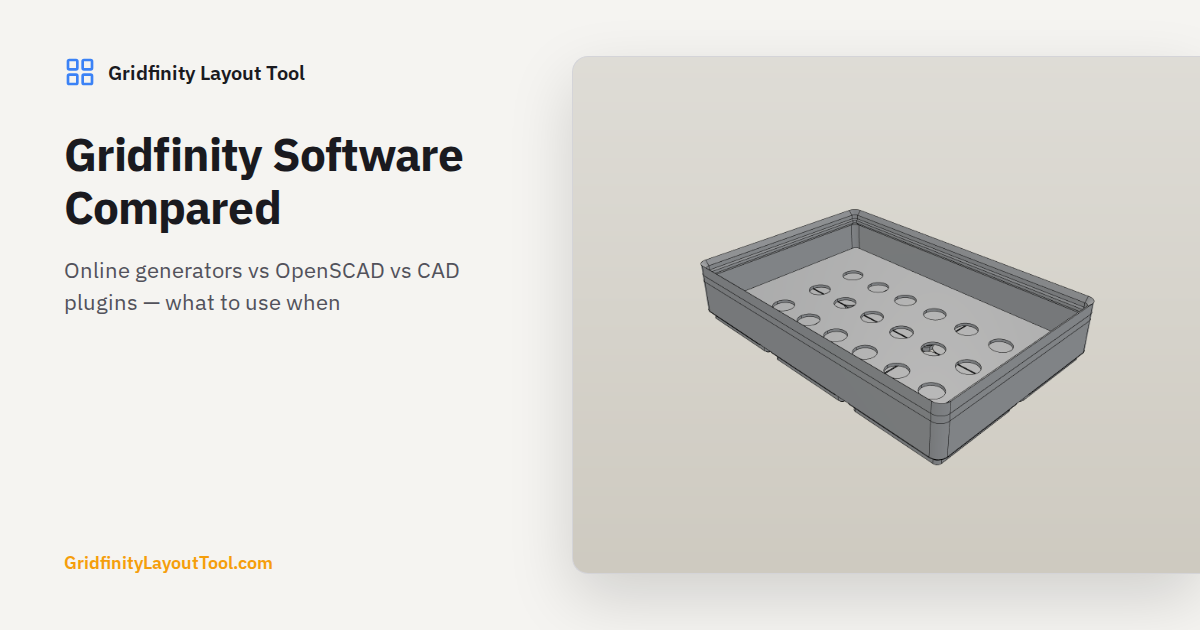
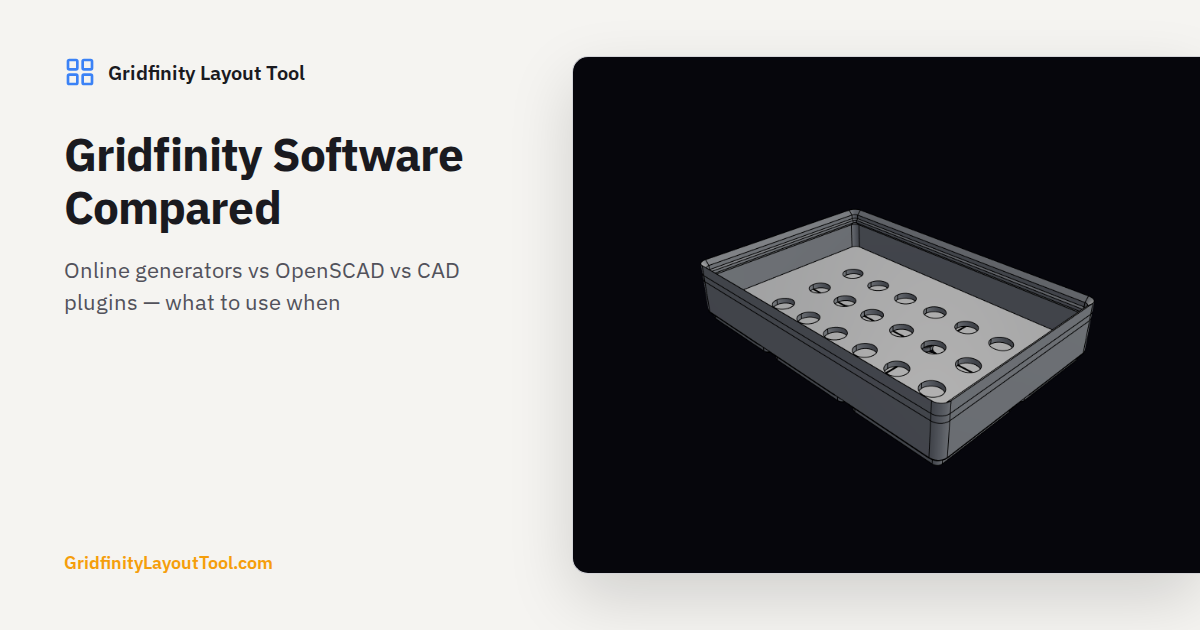
chore(seo): render OG card bins the way the designer shows them
The bin insets on the generator, designer, bin-generator, sizes, what-is,
software and community cards were light-theme captures of gallery examples,
so they carried the gallery palette's grey body and amber accents rather
than the app's look. The dev thumbnail route gains a colors=0 flag that
renders an example with feature colors off, and the renders step captures
each inset a second time in the app's dark theme with the plain preview
color into a -app file. The cards use those; the light renders stay for the
content pages. The cutout-generator card was defined but never generated.

diff --git a/scripts/gen-seo-images.ts b/scripts/gen-seo-images.ts
@@ -380,7 +380,7 @@ const OG_CARDS: OgCard[] = [
     title: 'Gridfinity Bin Designer',
     subtitle: 'Custom bins with compartments, cutouts & label tabs — free, in your browser',
     style: 'dark',
-    inset: 'multicolor-organizer-bin.png',
+    inset: 'multicolor-organizer-bin-app.png',
     insetPosition: 'center',
   },
   {
@@ -395,7 +395,7 @@ const OG_CARDS: OgCard[] = [
     title: 'Community Gridfinity Designs',
     subtitle: 'Designs shared by other makers — free to remix and print',
     style: 'dark',
-    inset: 'multicolor-organizer-bin.png',
+    inset: 'multicolor-organizer-bin-app.png',
     insetPosition: 'center',
   },
   {
@@ -403,7 +403,7 @@ const OG_CARDS: OgCard[] = [
     title: 'Gridfinity Generator',
     subtitle: 'Bins and baseplates, generated in your browser — STL, STEP & 3MF',
     style: 'dark',
-    inset: 'multicolor-organizer-bin.png',
+    inset: 'multicolor-organizer-bin-app.png',
     insetPosition: 'center',
   },
   {
@@ -411,7 +411,7 @@ const OG_CARDS: OgCard[] = [
     title: 'Gridfinity Bin Generator',
     subtitle: 'Parametric bins with a real-time 3D preview — free, no account',
     style: 'dark',
-    inset: 'honeycomb-caddy-bin.png',
+    inset: 'honeycomb-caddy-bin-app.png',
     insetPosition: 'center',
   },
   {
@@ -433,7 +433,7 @@ const OG_CARDS: OgCard[] = [
     title: 'What is Gridfinity?',
     subtitle: 'The 42mm modular storage system for 3D printing, explained',
     style: 'light',
-    inset: 'multicolor-organizer-bin.png',
+    inset: 'multicolor-organizer-bin-app.png',
     insetPosition: 'center',
   },
   {
@@ -441,7 +441,7 @@ const OG_CARDS: OgCard[] = [
     title: 'Gridfinity Sizes Reference',
     subtitle: 'Bin and baseplate dimensions on the 42mm grid',
     style: 'light',
-    inset: 'honeycomb-caddy-bin.png',
+    inset: 'honeycomb-caddy-bin-app.png',
     insetPosition: 'center',
   },
   {
@@ -477,7 +477,7 @@ const OG_CARDS: OgCard[] = [
     title: 'Gridfinity Software Compared',
     subtitle: 'Online generators vs OpenSCAD vs CAD plugins — what to use when',
     style: 'light',
-    inset: 'bit-organizer-bin.png',
+    inset: 'bit-organizer-bin-app.png',
     insetPosition: 'center',
   },
 ];
@@ -587,6 +587,28 @@ async function main(): Promise<void> {
         outFile: resolve(LANDING_OUT, 'bit-organizer-bin.png'),
         query: `params=${encodeURIComponent(Buffer.from(JSON.stringify(BIT_ORGANIZER_PARAMS)).toString('base64'))}`,
         theme: 'light',
+        zoomSteps: 5,
+      });
+      // The `-app` variants are the OG card insets: the same bins as the
+      // designer shows them, dark theme and plain preview color, so a shared
+      // link looks like the app rather than the gallery palette. The light
+      // renders above stay for the content pages, which are light.
+      await captureDesignerRender(browser, {
+        outFile: resolve(LANDING_OUT, 'multicolor-organizer-bin-app.png'),
+        query: 'example=hero-multicolor-organizer&colors=0',
+        theme: 'dark',
+        zoomSteps: 5,
+      });
+      await captureDesignerRender(browser, {
+        outFile: resolve(LANDING_OUT, 'honeycomb-caddy-bin-app.png'),
+        query: 'example=hero-honeycomb-caddy&colors=0',
+        theme: 'dark',
+        zoomSteps: 5,
+      });
+      await captureDesignerRender(browser, {
+        outFile: resolve(LANDING_OUT, 'bit-organizer-bin-app.png'),
+        query: `params=${encodeURIComponent(Buffer.from(JSON.stringify(BIT_ORGANIZER_PARAMS)).toString('base64'))}`,
+        theme: 'dark',
         zoomSteps: 5,
       });
     }

diff --git a/src/features/bin-designer/components/DevThumbnailRoute/DevThumbnailRoute.tsx b/src/features/bin-designer/components/DevThumbnailRoute/DevThumbnailRoute.tsx
@@ -16,6 +16,7 @@ import { useGeneration } from '@/features/bin-designer/hooks/useGeneration';
 import { useDesignerStore } from '@/features/bin-designer/store/designer';
 import { EXAMPLE_DESIGNS } from '@/features/bin-designer/data/examples';
 import { recolorBody } from './recolorBody';
+import { disableFeatureColors } from './plainColors';
 import {
   captureThumbnailAtPreset,
   exportCommunityGlb,
@@ -40,14 +41,18 @@ export function DevThumbnailRoute() {
   // Load the requested example's params into the store once on mount.
   // `params=<base64 JSON>` renders an arbitrary partial-params design instead
   // (used by gen-seo-images for marketing renders with no gallery example).
-  // `body=<hex>` restyles an example's body color without forking it.
+  // `body=<hex>` restyles an example's body color without forking it, and
+  // `colors=0` renders it in the plain preview color the designer uses for a
+  // user's own bin.
   useEffect(() => {
     const search = new URLSearchParams(window.location.search);
     const id = search.get('example');
     const body = search.get('body');
+    const plain = search.get('colors') === '0';
     const example = EXAMPLE_DESIGNS.find((e) => e.id === id);
     if (example) {
-      setParams(body ? recolorBody(example.params, body) : example.params);
+      const styled = body ? recolorBody(example.params, body) : example.params;
+      setParams(plain ? disableFeatureColors(styled) : styled);
       return;
     }
     const rawParams = search.get('params');

diff --git a/src/features/bin-designer/components/DevThumbnailRoute/plainColors.test.ts b/src/features/bin-designer/components/DevThumbnailRoute/plainColors.test.ts
@@ -1,0 +1,31 @@
+import { describe, it, expect } from 'vitest';
+import { disableFeatureColors } from './plainColors';
+import { coloredFeatures, PALETTE } from '@/features/bin-designer/data/examples/palette';
+
+describe('disableFeatureColors', () => {
+  it('turns feature colors off and keeps the zone colors for re-enabling', () => {
+    const params = { featureColors: coloredFeatures({ scoop: PALETTE.coral }) };
+
+    const result = disableFeatureColors(params).featureColors;
+
+    expect(result?.enabled).toBe(false);
+    expect(result?.scoop).toBe(PALETTE.coral);
+  });
+
+  it('preserves non-color params', () => {
+    const params = { width: 3, depth: 2, featureColors: coloredFeatures() };
+
+    const result = disableFeatureColors(params);
+
+    expect(result.width).toBe(3);
+    expect(result.depth).toBe(2);
+  });
+
+  it('passes params through untouched when colors are absent or already off', () => {
+    const absent = { width: 3 };
+    expect(disableFeatureColors(absent)).toBe(absent);
+
+    const off = { featureColors: { ...coloredFeatures(), enabled: false } };
+    expect(disableFeatureColors(off)).toBe(off);
+  });
+});

diff --git a/src/features/bin-designer/components/DevThumbnailRoute/DevThumbnailRoute.test.tsx b/src/features/bin-designer/components/DevThumbnailRoute/DevThumbnailRoute.test.tsx
@@ -35,6 +35,15 @@ describe('DevThumbnailRoute', () => {
     expect(useDesignerStore.getState().params.depth).toBe(example.params.depth);
   });
 
+  it('renders an example with feature colors off when colors=0 is set', () => {
+    const example = EXAMPLE_DESIGNS.find((e) => e.params.featureColors?.enabled);
+    if (!example) throw new Error('expected a colored gallery example');
+    setSearch(`?devThumbnails=1&example=${example.id}&colors=0`);
+    render(<DevThumbnailRoute />);
+    expect(useDesignerStore.getState().params.featureColors.enabled).toBe(false);
+    expect(useDesignerStore.getState().params.width).toBe(example.params.width);
+  });
+
   it('applies arbitrary partial params from the base64 params query', () => {
     const payload = btoa(JSON.stringify({ width: 5, depth: 4 }));
     setSearch(`?devThumbnails=1&params=${payload}`);

diff --git a/src/features/bin-designer/components/DevThumbnailRoute/plainColors.ts b/src/features/bin-designer/components/DevThumbnailRoute/plainColors.ts
@@ -1,0 +1,13 @@
+import type { BinParams } from '@/features/bin-designer/types/binParams';
+
+/**
+ * Render a gallery example the way the designer shows a user's own bin: with
+ * `featureColors` off, the preview paints every zone from the single
+ * `previewColor` (the app default unless the viewer changed it), so a
+ * marketing capture matches the app instead of the gallery palette.
+ */
+export function disableFeatureColors(params: Partial<BinParams>): Partial<BinParams> {
+  const featureColors = params.featureColors;
+  if (!featureColors || !featureColors.enabled) return params;
+  return { ...params, featureColors: { ...featureColors, enabled: false } };
+}
